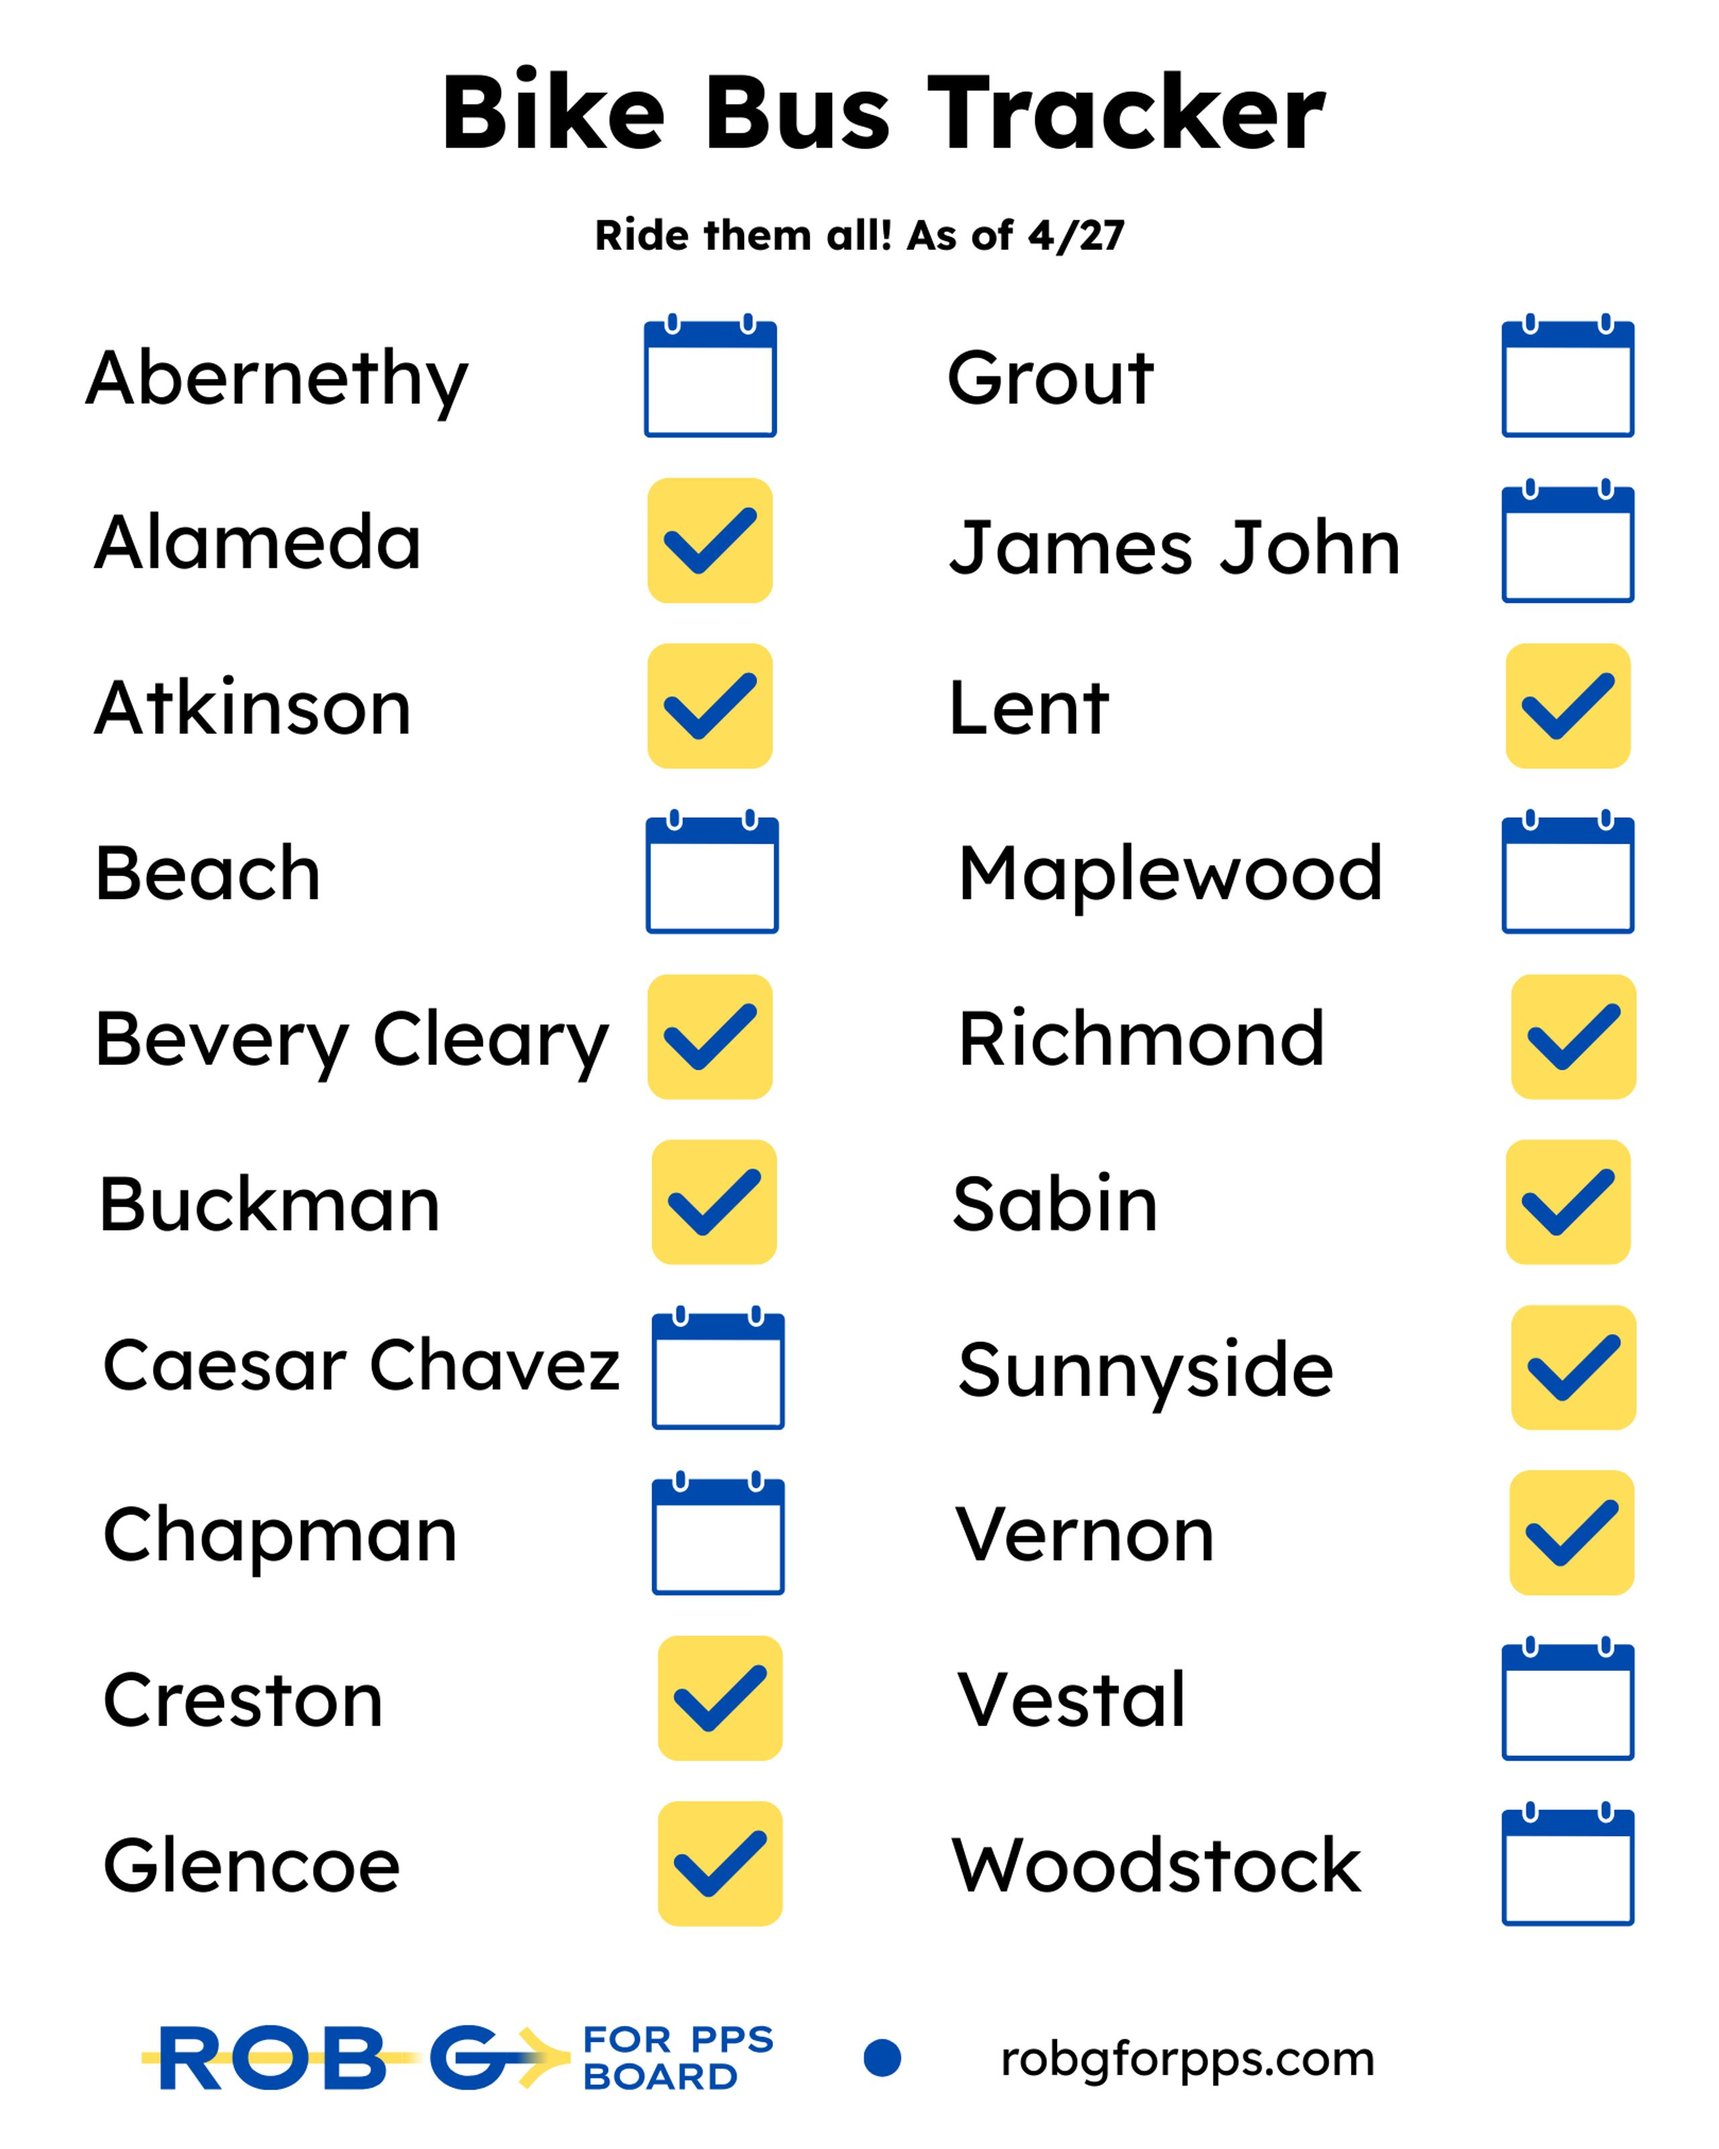
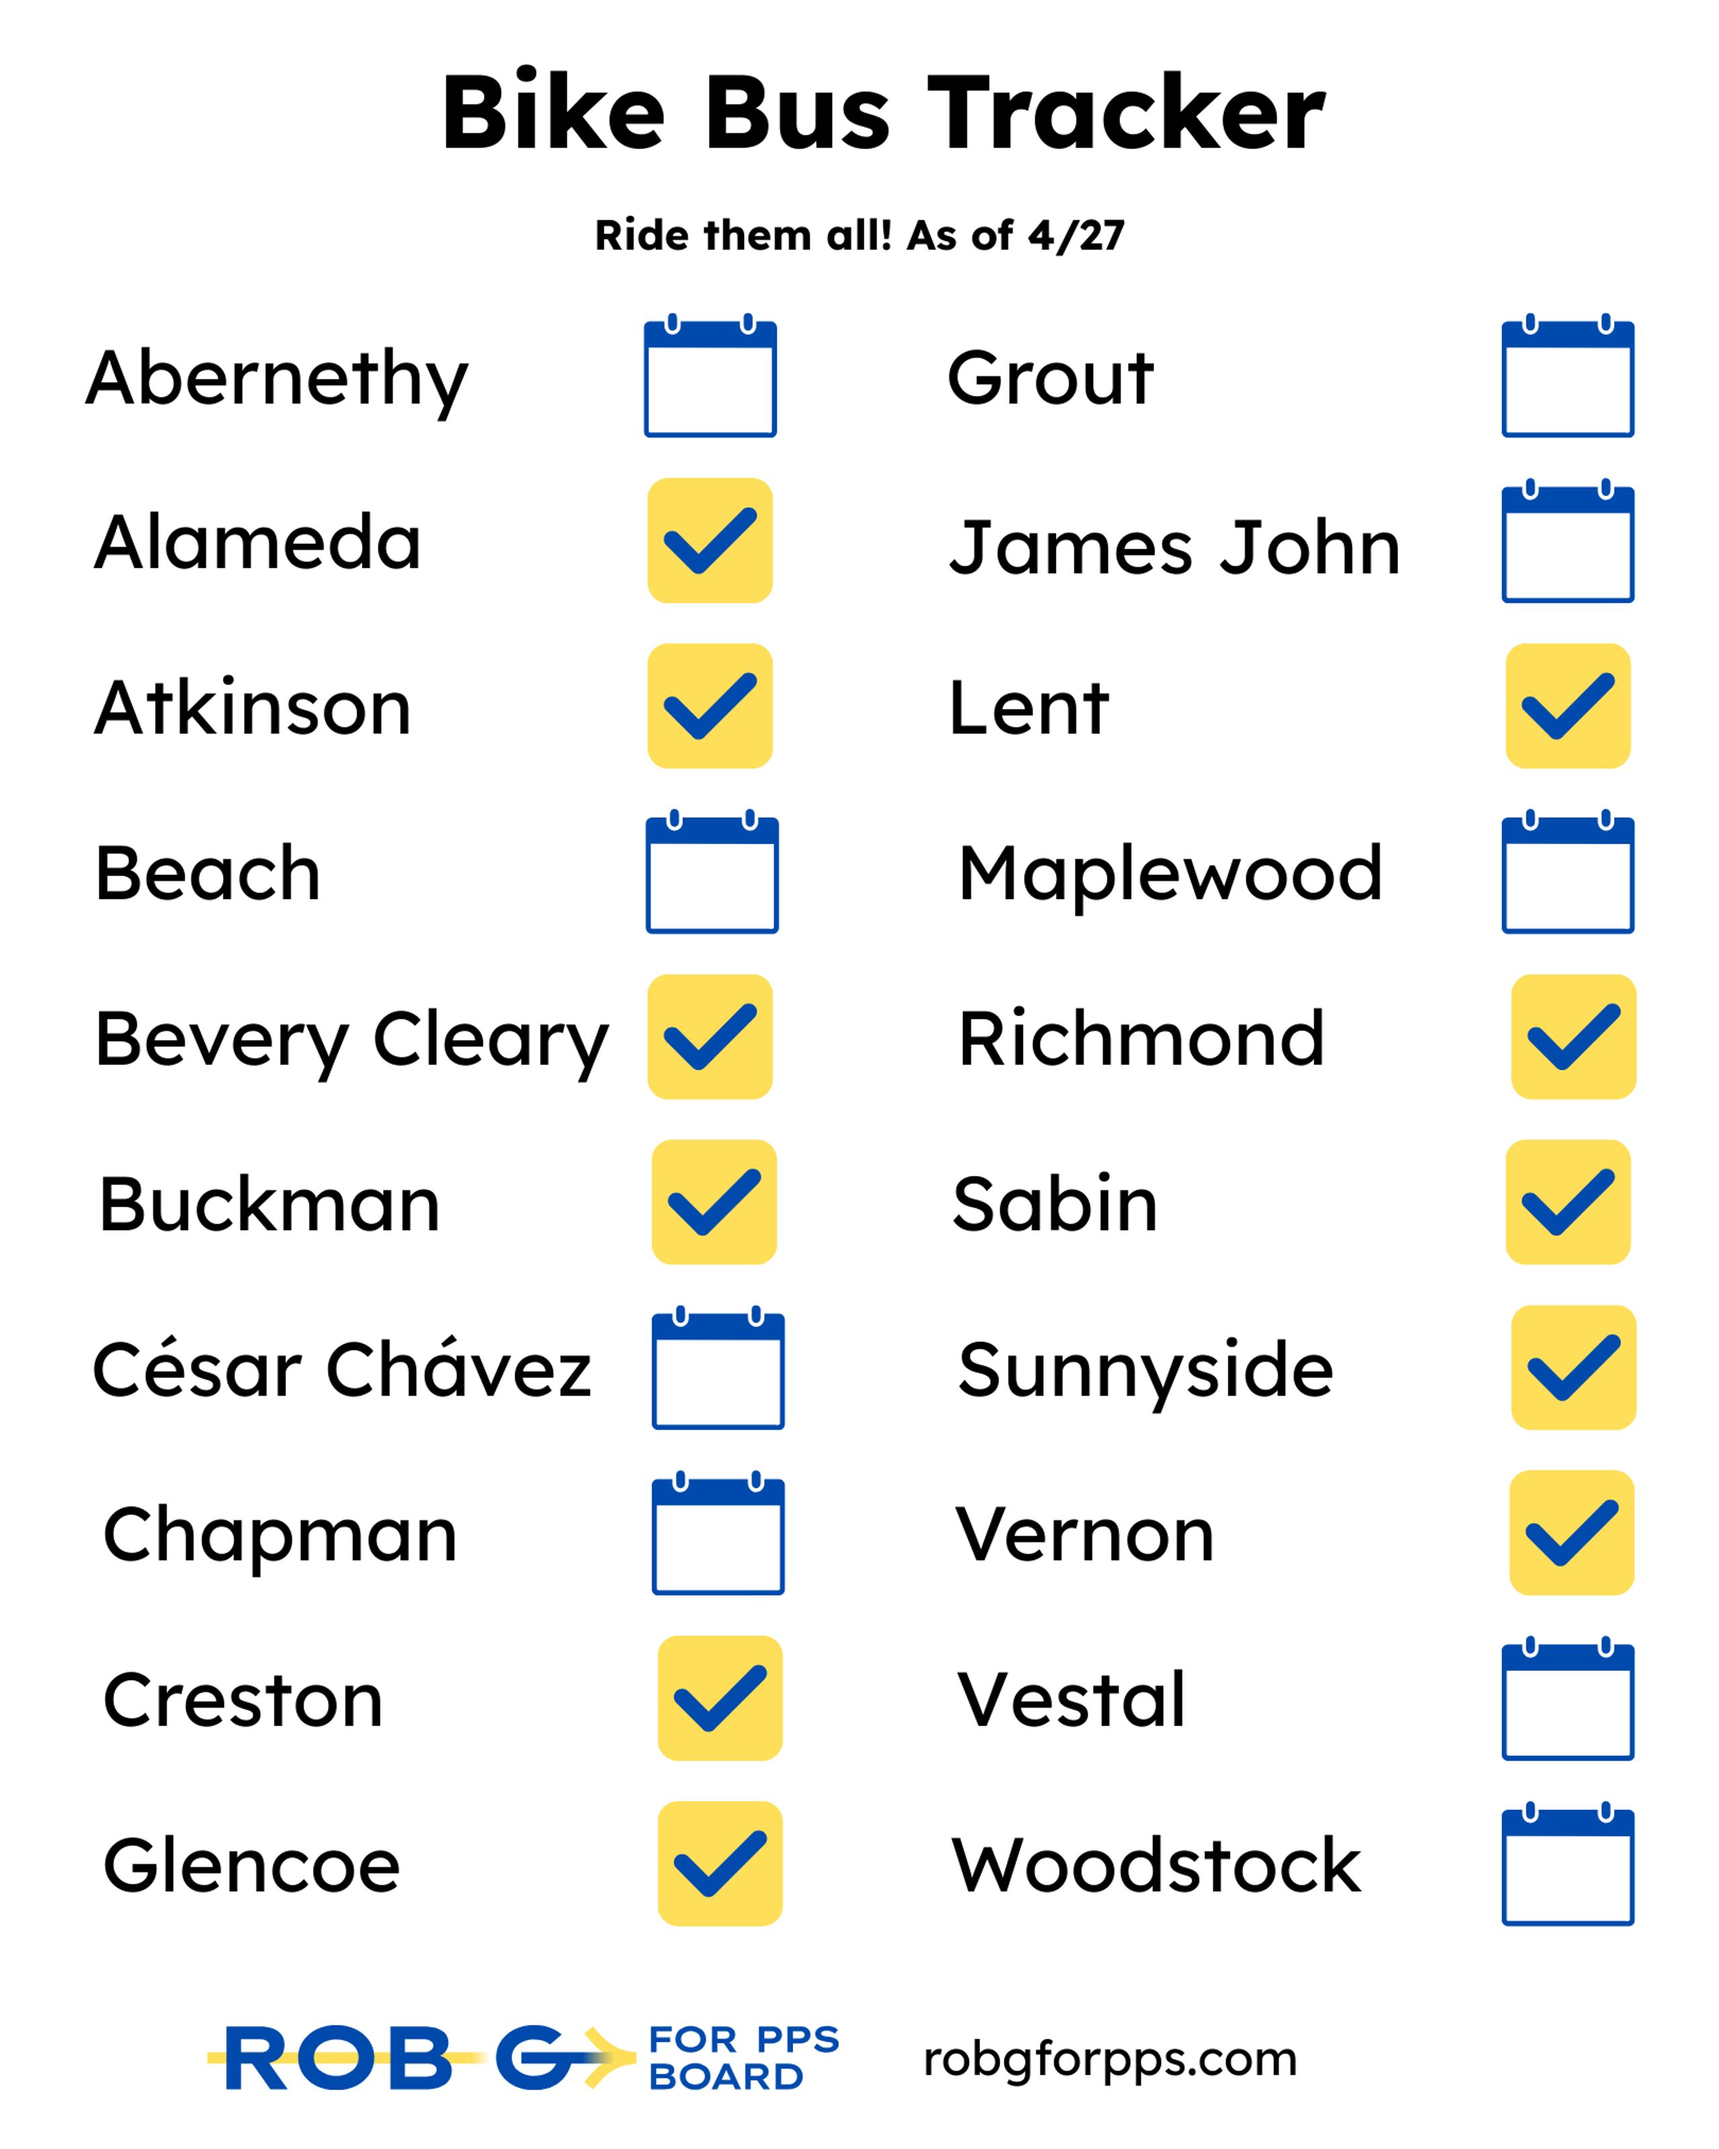
Update bikebustracker image and link

Changed region(s): [[0.0938, 0.9375, 0.8125, 1.0], [0.0312, 0.625, 0.375, 0.6562]]

diff --git a/_pages/bike-bus.md b/_pages/bike-bus.md
@@ -56,7 +56,7 @@ gallery-3:
 
 {: .lead}
 Portland has over **20 active Bike Buses!** I'm riding them *all* this spring.
-<br />[Check out my progress!](https://bsky.app/profile/robgalanakis.bsky.social/post/3lnu2x6sjdc2j)
+<br />[Check out my progress!](https://bsky.app/profile/robgalanakis.bsky.social/post/3lnuwual5322q)
 
 # It's a Movement, Not a Moment
 
